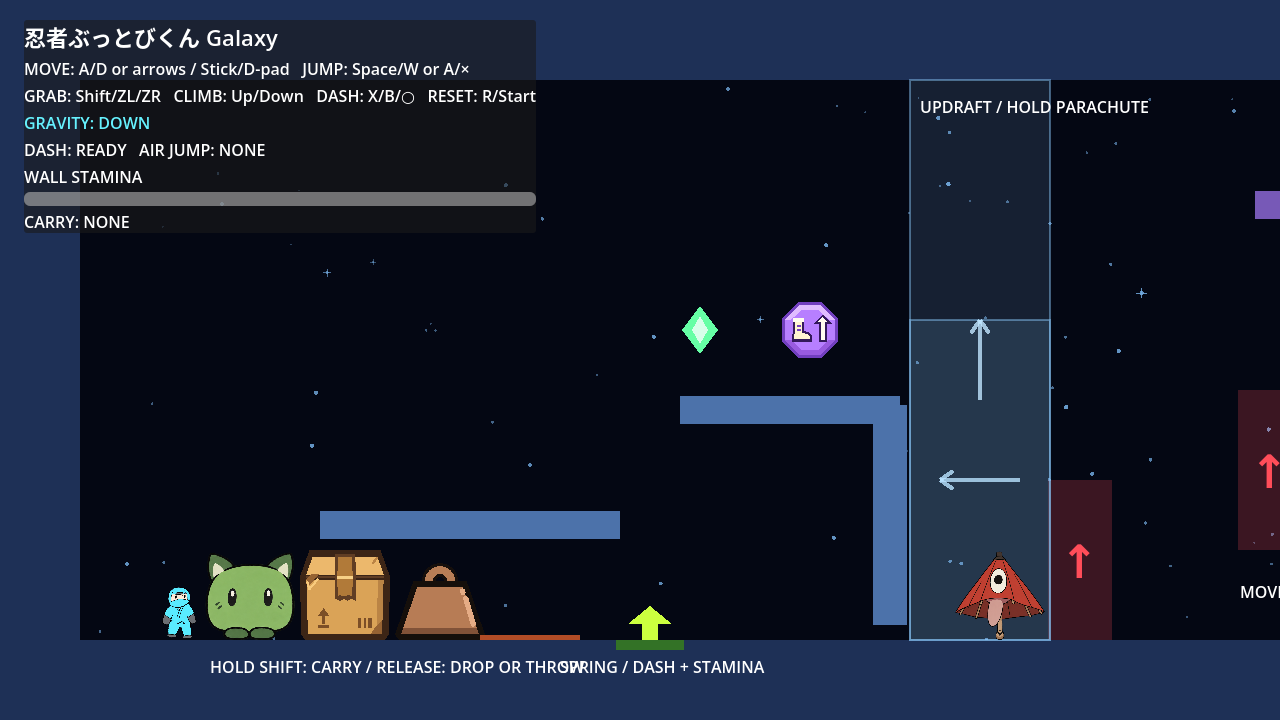
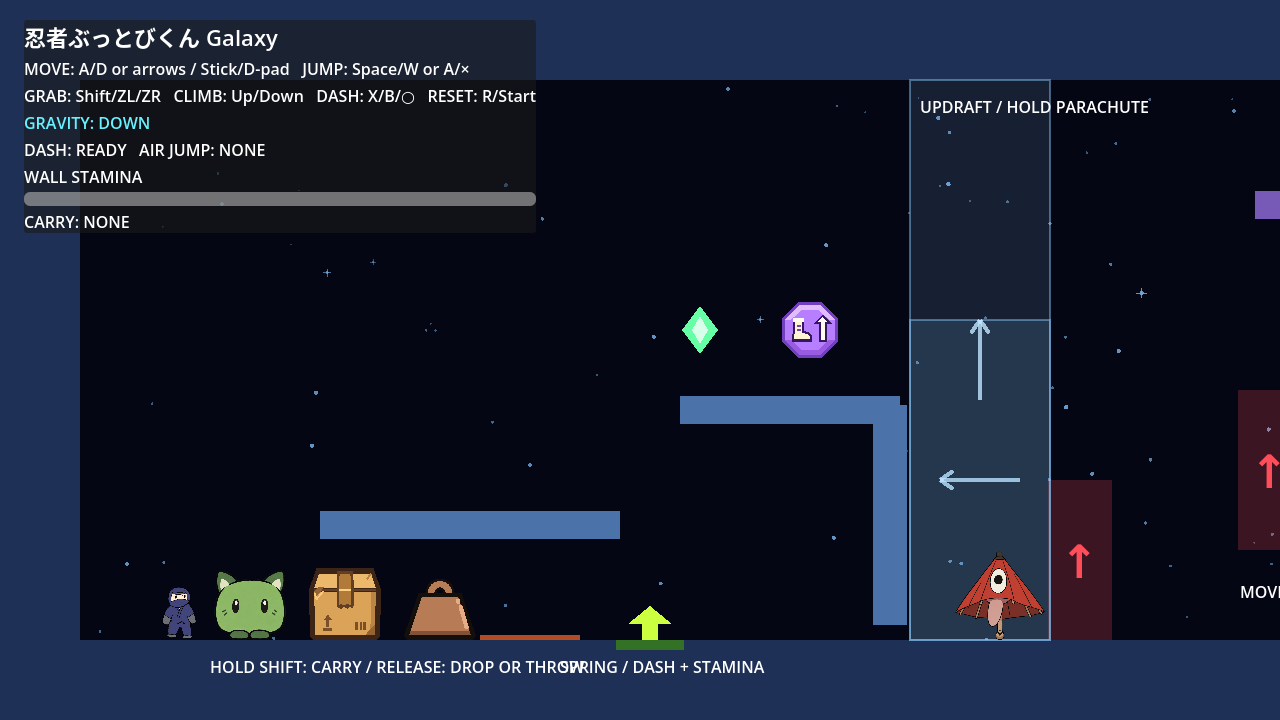
💄 忍者のDash状態色と運搬アイテムの表示サイズを調整
- Dash使用可能時は元の藍色を保ち、使用済み時は衣装をシアンに変更
- 傘の表示幅は90pxを維持し、ほかの運搬アイテムは72pxに縮小
- 色とサイズのテスト、関連ドキュメント、スクリーンショット、動作プレビューを更新

Changed region(s): [[0.125, 0.7639, 0.375, 0.8861]]

diff --git a/assets/characters/PROMPTS.md b/assets/characters/PROMPTS.md
@@ -10,7 +10,7 @@
 | `jump-creature.png` | `jump-creature-rest.png`、`jump-creature-active.png` |
 | `red-umbrella.png` | `red-umbrella-rest.png`、`red-umbrella-active.png` |
 
-衣装の色は画像を再生成せず `outfit.gdshader` で切り替える。元の6姿勢の布の形・顔・手足を保つ。
+衣装の色は画像を再生成せず `outfit.gdshader` で切り替える。通常時は元の藍色をそのまま表示し、Dash使用済みのときだけシアンにする。元の6姿勢の布の形・顔・手足を保つ。
 
 ## 忍者の壁登り・運搬
 
